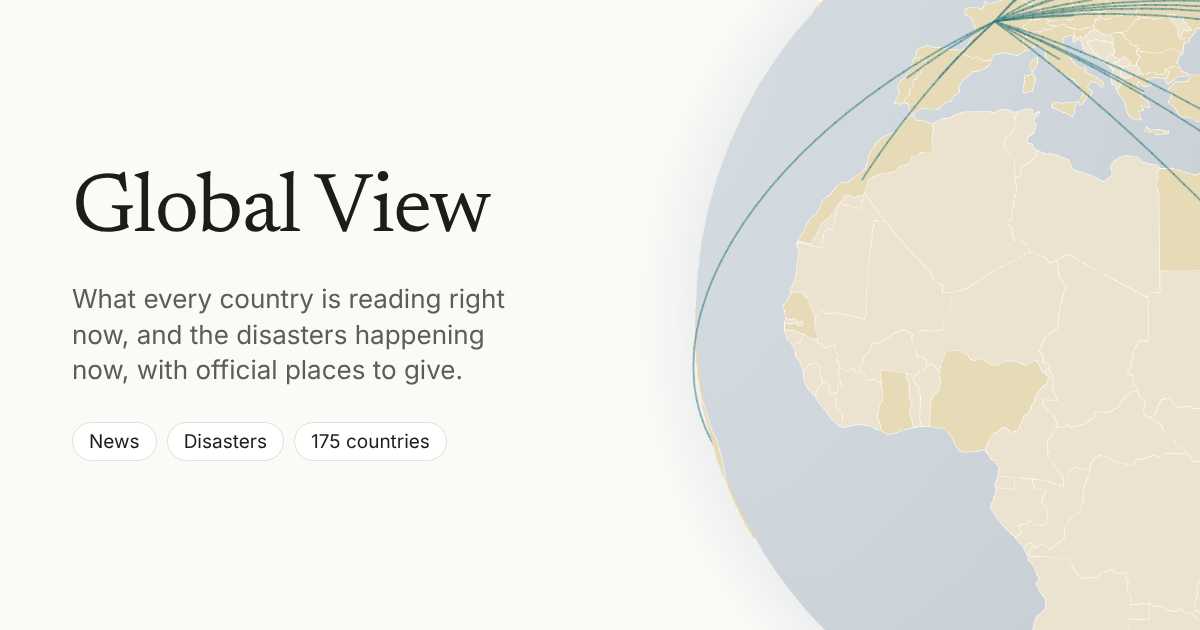
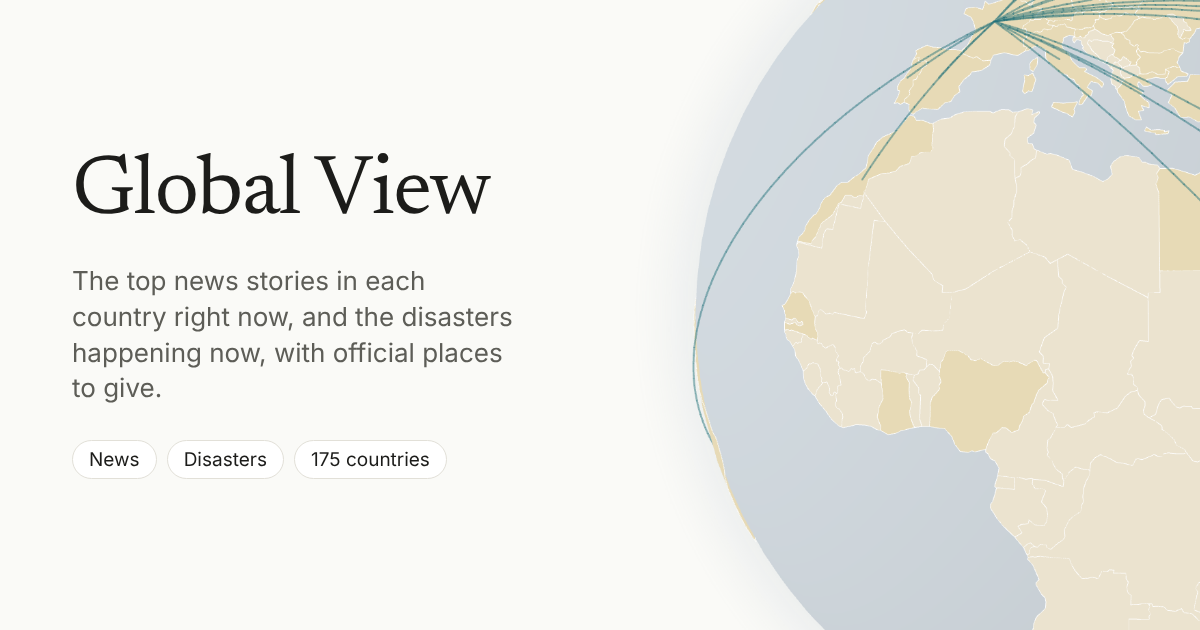
Say 'top news stories' in the preview, and verify search engines without code
- The description and the preview card say 'the top news stories in each
  country', since the lists are each edition's top stories, not counts
  of what people read.
- GOOGLE_SITE_VERIFICATION and BING_SITE_VERIFICATION, set as Netlify
  environment variables, add the Search Console and Bing Webmaster
  verification tags at build time.

Claude-Session: https://claude.ai/code/session_01BdqPumM5q3umpwyWonxqch

diff --git a/src/lib/site.ts b/src/lib/site.ts
@@ -10,9 +10,25 @@ export const SITE_URL = (process.env.URL || process.env.DEPLOY_PRIME_URL || "htt
 
 export const SITE_NAME = "Global View";
 
-/** What the site is, in a sentence: for search results and link previews. */
+/**
+ * What the site is, in a sentence: for search results and link previews.
+ * "Top news stories", not "what people read": the lists are each edition's
+ * top stories feed, not reader counts.
+ */
 export const SITE_DESCRIPTION =
-  "An interactive globe of what each country is reading right now, and of the natural disasters happening now, with official places to give.";
+  "A 3D globe of the top news stories in each country right now, and of the natural disasters happening now, with official places to give.";
+
+/**
+ * Codes that prove to Google Search Console and Bing Webmaster Tools that
+ * this is the owner's site. Set as Netlify environment variables, so adding
+ * one needs no code change; left out of the page when unset.
+ */
+export function siteVerification(env: Record<string, string | undefined> = process.env): { google?: string; other?: Record<string, string> } | undefined {
+  const google = env.GOOGLE_SITE_VERIFICATION?.trim();
+  const bing = env.BING_SITE_VERIFICATION?.trim();
+  if (!google && !bing) return undefined;
+  return { ...(google ? { google } : {}), ...(bing ? { other: { "msvalidate.01": bing } } : {}) };
+}
 
 /** The link preview image in public/, 1200 x 630. */
 export const OG_IMAGE = { url: "/og.png", width: 1200, height: 630, alt: "Global View: a globe with lines joining countries reading the same story" };

diff --git a/src/lib/__tests__/site.test.ts b/src/lib/__tests__/site.test.ts
@@ -29,3 +29,18 @@ describe("link preview", () => {
     expect(SITE_DESCRIPTION.length).toBeLessThanOrEqual(160);
   });
 });
+
+describe("siteVerification", () => {
+  it("is left out until a code is set", async () => {
+    const { siteVerification } = await load({});
+    expect(siteVerification({})).toBeUndefined();
+    expect(siteVerification({ GOOGLE_SITE_VERIFICATION: "  " })).toBeUndefined();
+  });
+
+  it("carries Google's and Bing's codes", async () => {
+    const { siteVerification } = await load({});
+    expect(siteVerification({ GOOGLE_SITE_VERIFICATION: " abc123 " })).toEqual({ google: "abc123" });
+    expect(siteVerification({ BING_SITE_VERIFICATION: "XYZ" })).toEqual({ other: { "msvalidate.01": "XYZ" } });
+    expect(siteVerification({ GOOGLE_SITE_VERIFICATION: "g", BING_SITE_VERIFICATION: "b" })).toEqual({ google: "g", other: { "msvalidate.01": "b" } });
+  });
+});

diff --git a/src/app/layout.tsx b/src/app/layout.tsx
@@ -1,6 +1,6 @@
 import type { Metadata, Viewport } from "next";
 import { Inter, Newsreader } from "next/font/google";
-import { OG_IMAGE, SITE_DESCRIPTION, SITE_NAME, SITE_URL } from "@/lib/site";
+import { OG_IMAGE, SITE_DESCRIPTION, SITE_NAME, SITE_URL, siteVerification } from "@/lib/site";
 import "./globals.css";
 
 // One serif for headlines, one sans-serif for interface text.
@@ -17,6 +17,7 @@ export const metadata: Metadata = {
   title: SITE_NAME,
   description: SITE_DESCRIPTION,
   alternates: { canonical: "/" },
+  verification: siteVerification(),
   openGraph: {
     type: "website",
     siteName: SITE_NAME,
